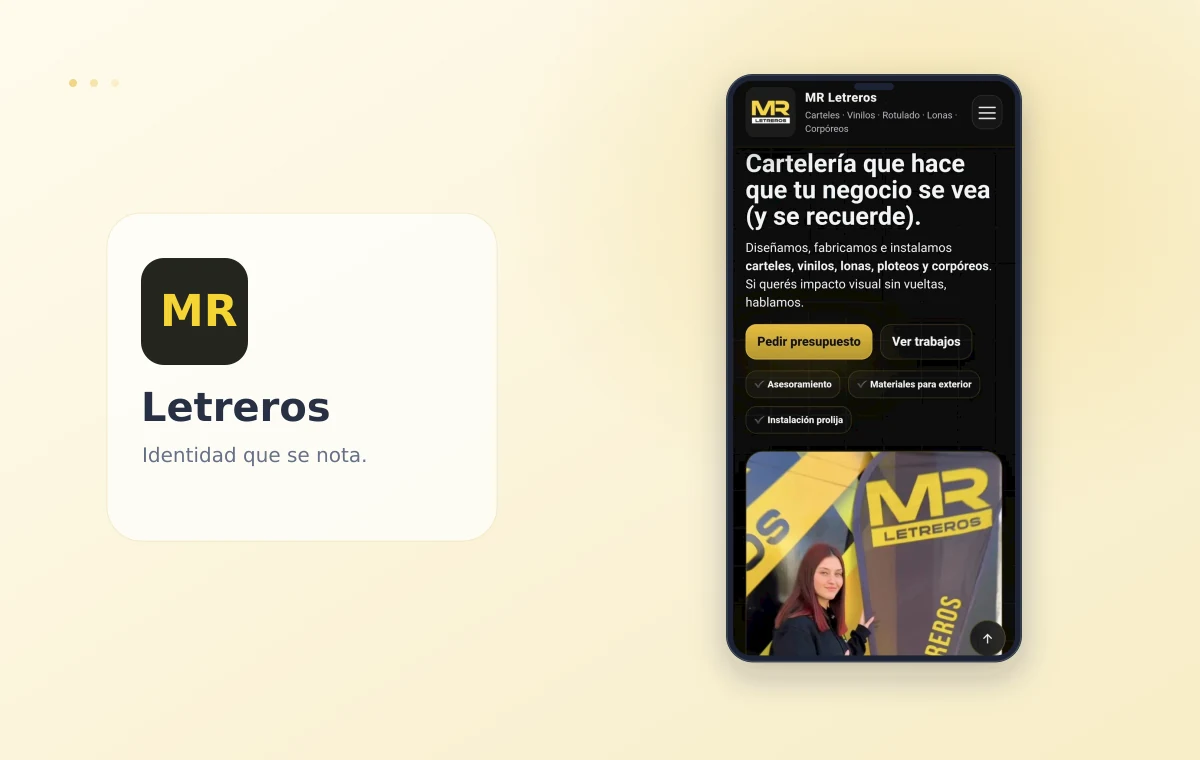
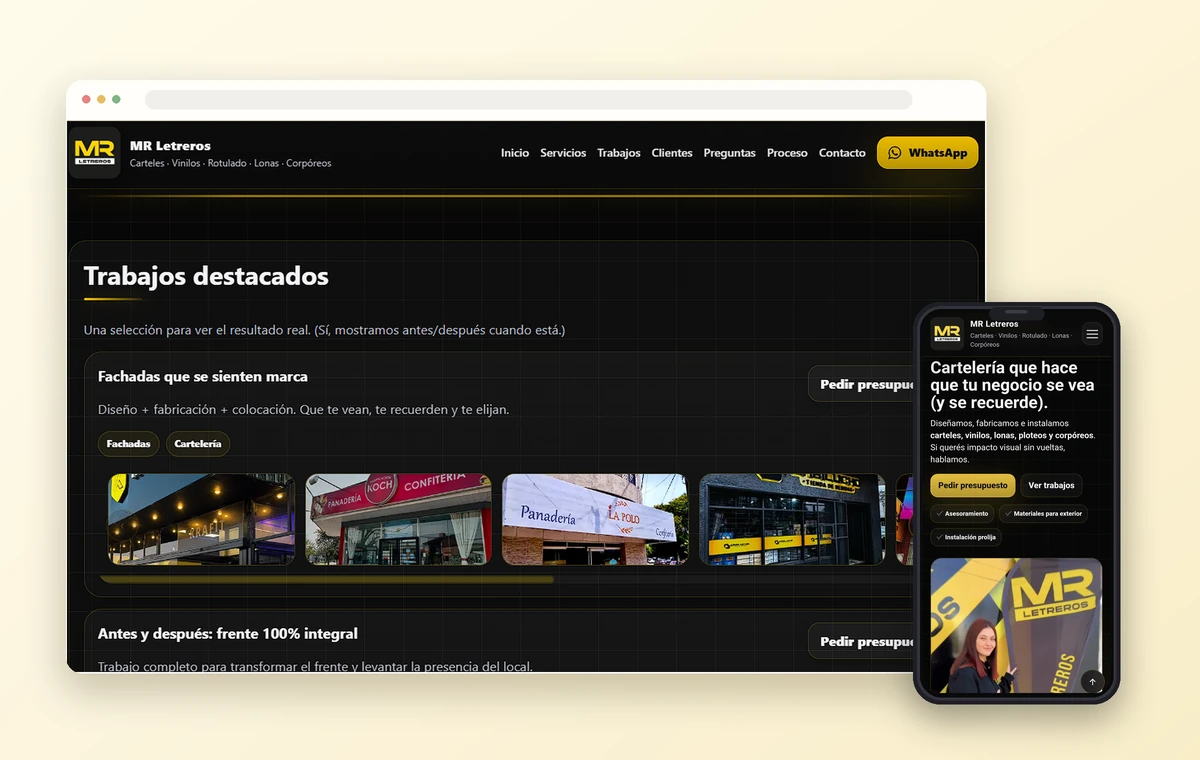
Mostrar MR Letreros en computadora y celular

diff --git a/index.html b/index.html
@@ -246,7 +246,7 @@
           <article class="project"><div class="project-copy"><span class="project-index">01 / CATÁLOGO TÉCNICO</span><span class="kicker">Automotor · agro · industria</span><h3>RO Rodamientos</h3><p>Catálogo técnico y comercial con búsquedas por códigos, aplicaciones y equivalencias. Precios, clientes y pedidos en un mismo lugar.</p><div class="tags"><span class="tag">+40.000 productos</span><span class="tag">Equivalencias</span><span class="tag">Pedidos</span></div><a class="project-link" href="https://rorodamientos.com.ar/" target="_blank" rel="noopener">Visitar proyecto ↗</a></div><div class="project-artwork"><img src="assets/presentacion-ro.webp" width="1200" height="760" loading="lazy" alt="RO Rodamientos con su página completa en computadora y celular"></div></article>
           <article class="project"><div class="project-copy"><span class="project-index">02 / GESTIÓN COMERCIAL</span><span class="kicker">Almacén · comercio</span><h3>WebAlmacén</h3><p>Ventas, stock, combos, clientes y proveedores. También incluye una vidriera online para productos, ofertas y pedidos.</p><div class="tags"><span class="tag">Ventas</span><span class="tag">Stock</span><span class="tag">Combos</span><span class="tag">Web pública</span></div></div><div class="project-artwork"><img src="assets/presentacion-almacen.webp" width="1200" height="760" loading="lazy" alt="Panel de WebAlmacén y tienda online mostrados completos"></div></article>
           <article class="project"><div class="project-copy"><span class="project-index">03 / PEDIDOS Y SEGUIMIENTO</span><span class="kicker">Emprendimientos · ventas</span><h3>PedidosFácil</h3><p>Pedidos, compras, preparación, cobros y estadísticas. Todo organizado para vender sin depender de papeles o planillas.</p><div class="tags"><span class="tag">Pedidos</span><span class="tag">Cobros</span><span class="tag">Compras</span></div><a class="project-link" href="https://listoparallevar.com.ar/" target="_blank" rel="noopener">Visitar proyecto ↗</a></div><div class="project-artwork"><img src="assets/presentacion-mariel.webp" width="1200" height="760" loading="lazy" alt="PedidosFácil con la tienda de Mariel y sus estadísticas completas"></div></article>
-          <article class="project"><div class="project-copy"><span class="project-index">04 / PRESENCIA DIGITAL</span><span class="kicker">Sitio comercial · portfolio</span><h3>MR Letreros</h3><p>Una página con identidad propia para mostrar servicios, trabajos realizados y facilitar el contacto con nuevos clientes.</p><div class="tags"><span class="tag">Diseño web</span><span class="tag">Portfolio</span><span class="tag">Servicios</span></div></div><div class="project-artwork"><img src="assets/presentacion-mr.webp" width="1200" height="760" loading="lazy" alt="Presentación de marca y página completa de MR Letreros en celular"></div></article>
+          <article class="project"><div class="project-copy"><span class="project-index">04 / PRESENCIA DIGITAL</span><span class="kicker">Sitio comercial · portfolio</span><h3>MR Letreros</h3><p>Una página con identidad propia para mostrar servicios, trabajos realizados y facilitar el contacto con nuevos clientes.</p><div class="tags"><span class="tag">Diseño web</span><span class="tag">Portfolio</span><span class="tag">Servicios</span></div></div><div class="project-artwork"><img src="assets/presentacion-mr.webp?v=20260822" width="1200" height="760" loading="lazy" alt="MR Letreros con su página completa en computadora y celular"></div></article>
         </div>
       </div>
     </section>
